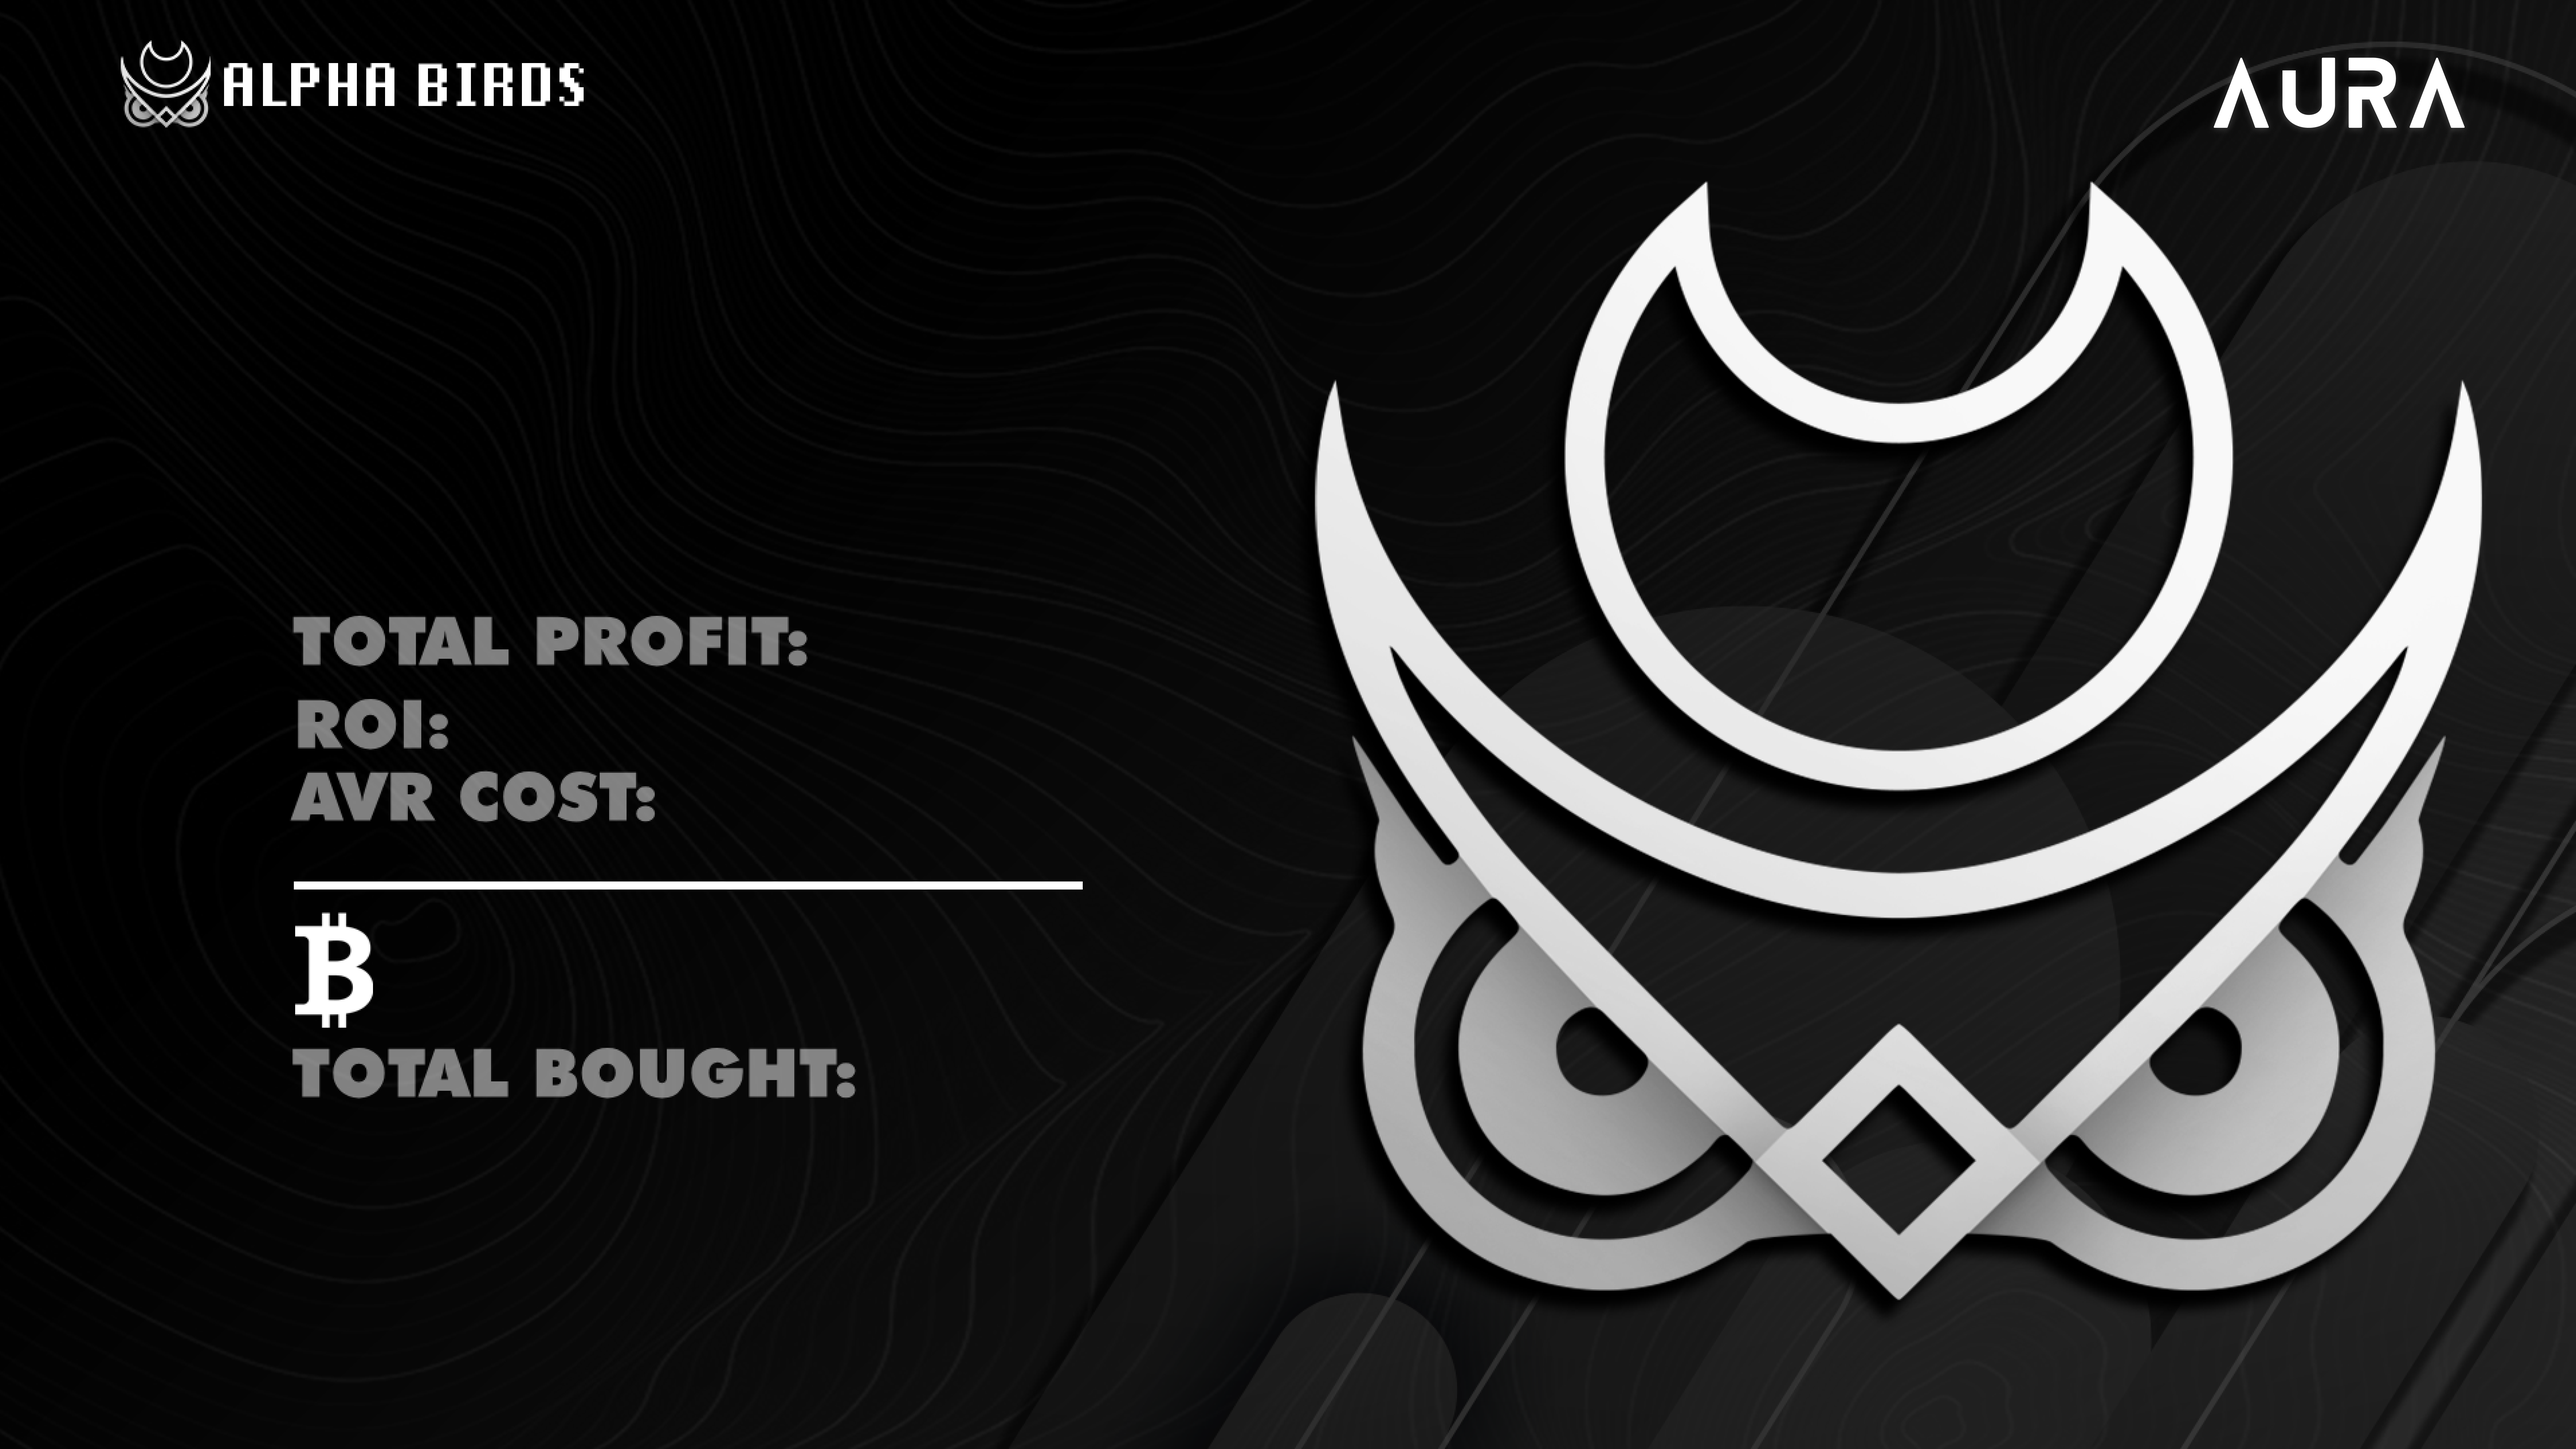
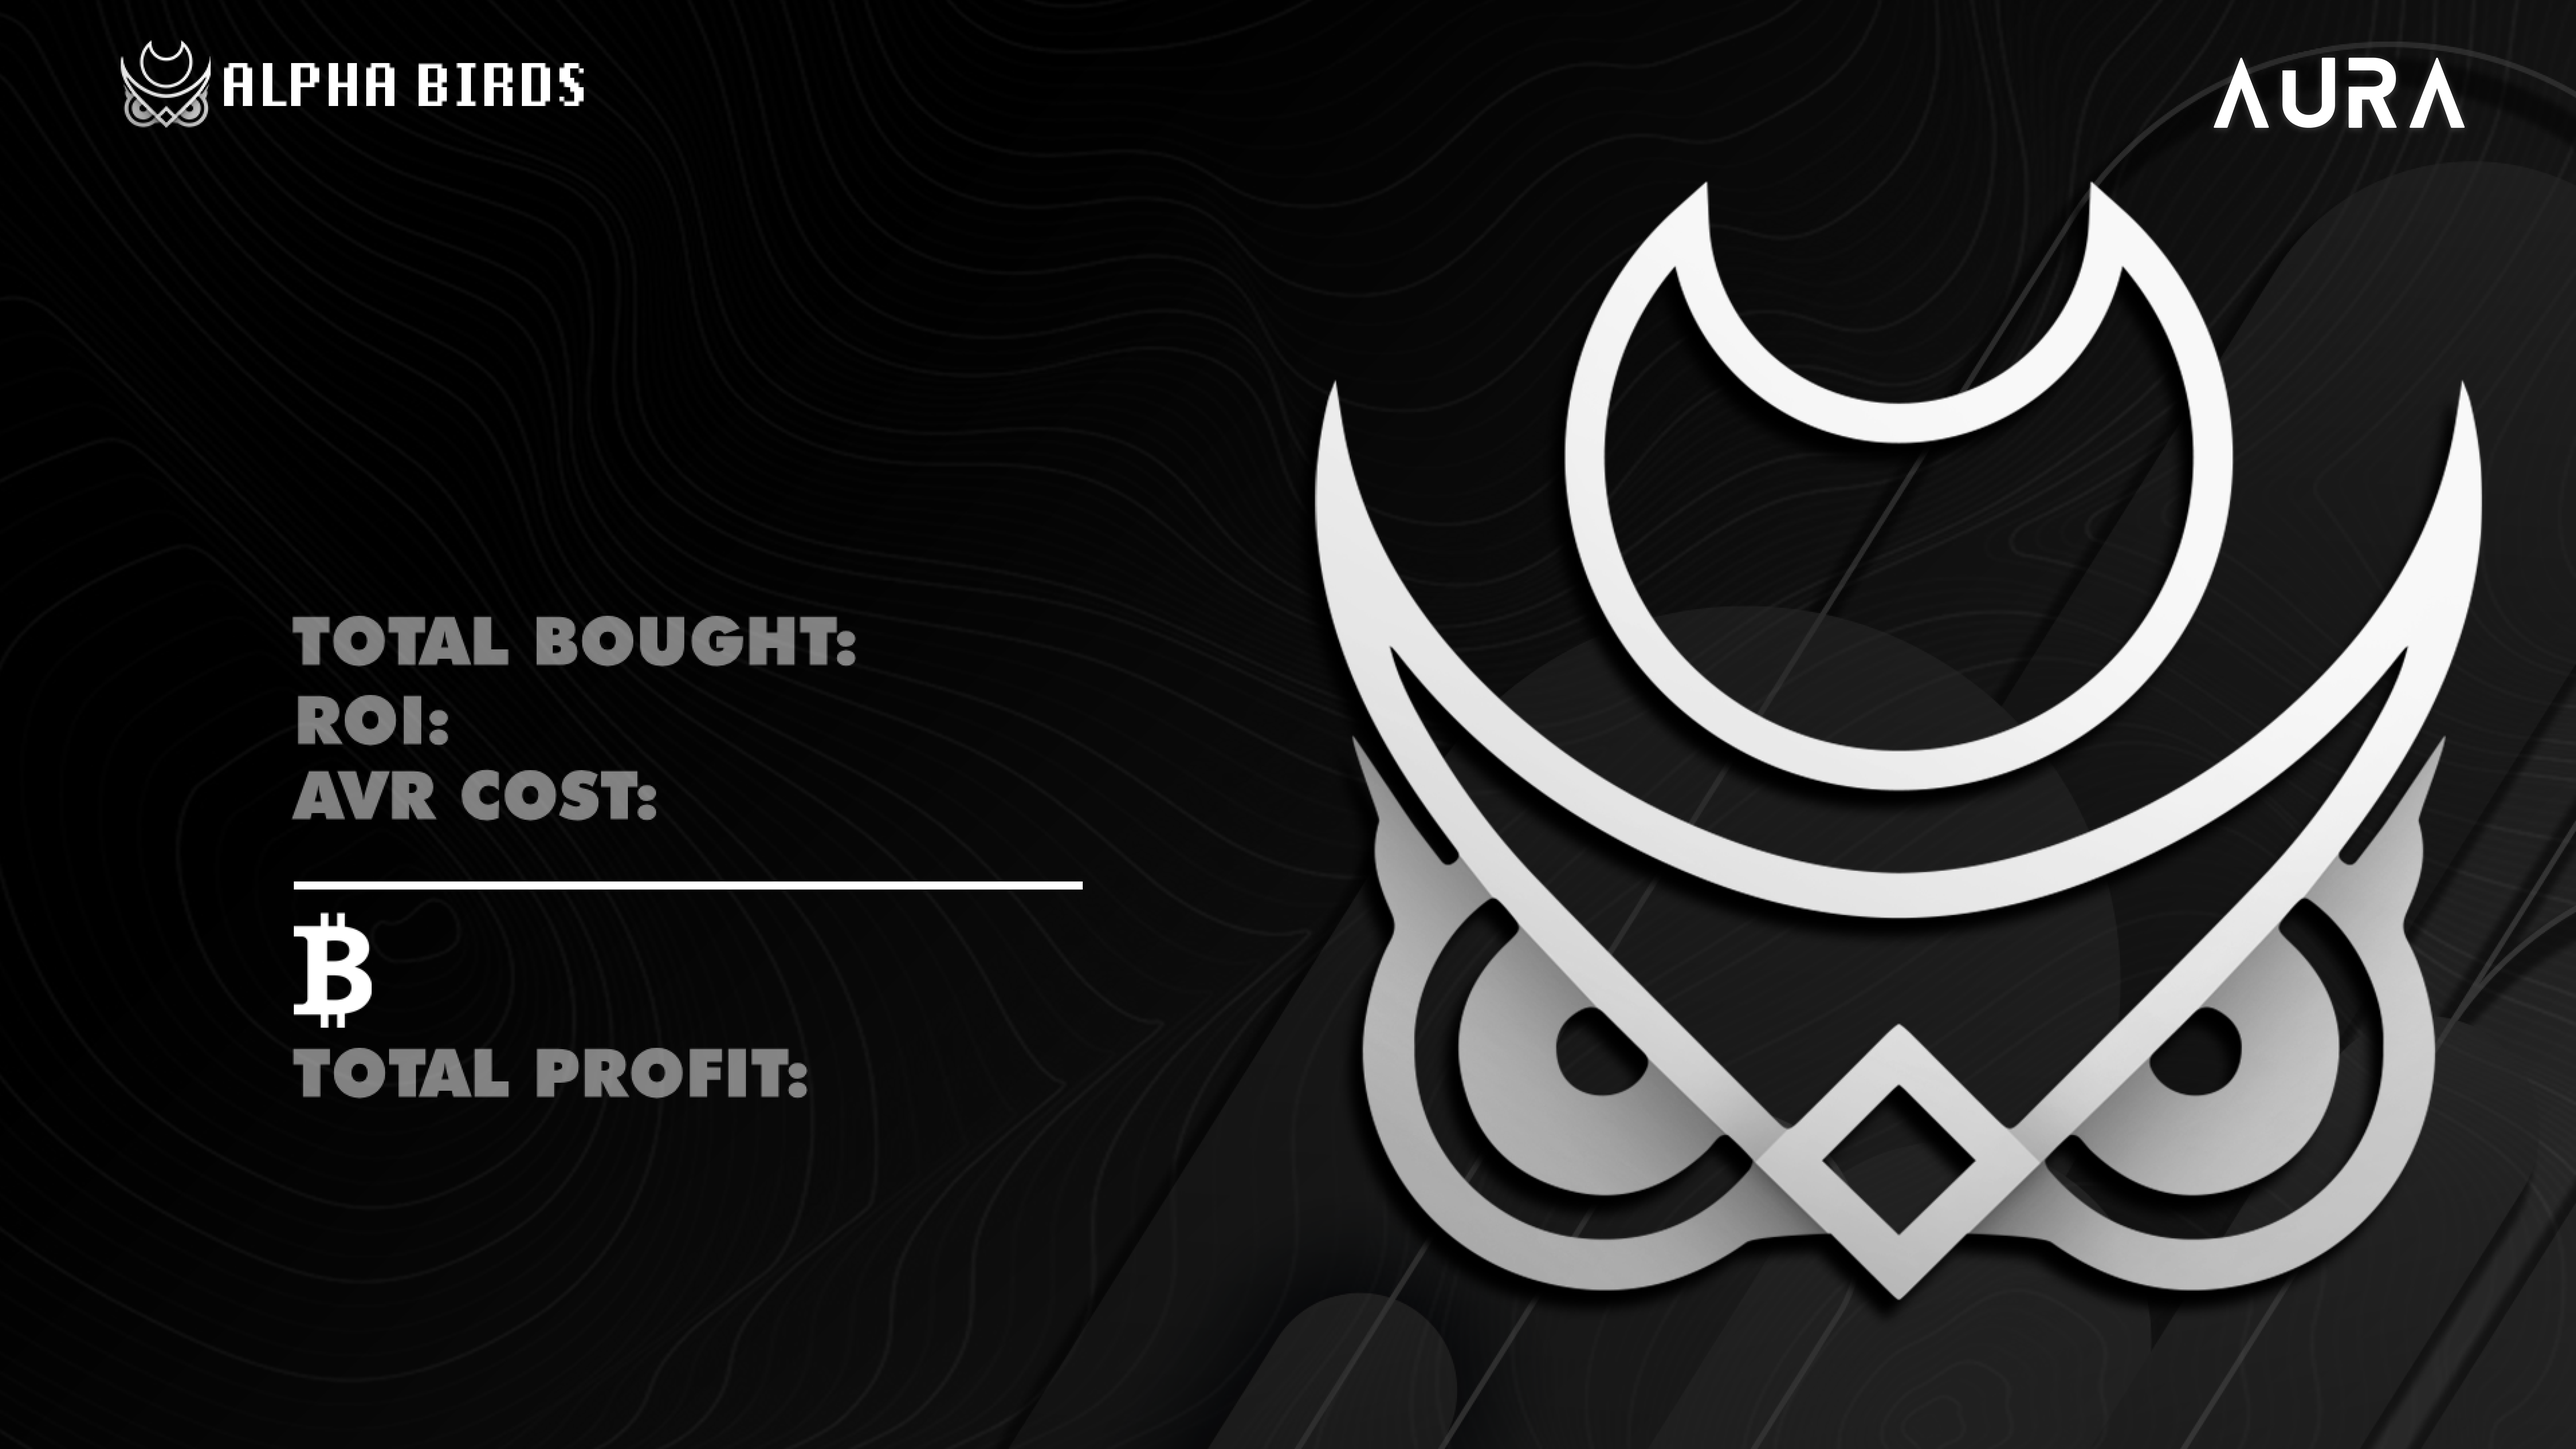
modify AB visual

Changed region(s): [[0.2188, 0.7188, 0.3438, 0.7812], [0.2188, 0.4062, 0.3438, 0.4688], [0.125, 0.4688, 0.25, 0.5625]]

diff --git a/interactions/buttons/category/cryptoprofit-visual.js b/interactions/buttons/category/cryptoprofit-visual.js
@@ -896,12 +896,12 @@ module.exports = {
           const buyTXT = "$" + formatDollars(totalBuy * ethUsdPrice)
           ctx.font = " 50px 'UTM Futura Extra'";
           ctx.fillStyle = "#828282";
-          ctx.fillText(buyTXT, 658, 817);
+          ctx.fillText(buyTXT, 658, 496);
 
           const profitUsdTXT = "$" + formatDollars(potentialProfit * ethUsdPrice)
           ctx.font = " 50px 'UTM Futura Extra'";
           ctx.fillStyle = "#828282";
-          ctx.fillText(profitUsdTXT, 621, 496);
+          ctx.fillText(profitUsdTXT, 621, 817);
 
           const name = "@" + authorName.toUpperCase()
           ctx.font = " 33px 'UTM Futura Extra'";

diff --git a/interactions/buttons/category/profit-visual.js b/interactions/buttons/category/profit-visual.js
@@ -924,12 +924,12 @@ module.exports = {
           const buyTXT = "$" + formatDollars(totalBuy * nativePrice)
           ctx.font = "50px 'UTM Futura Extra'";
           ctx.fillStyle = "#828282";
-          ctx.fillText(buyTXT, 658, 817);
+          ctx.fillText(buyTXT, 658, 496);
 
           const profitUsdTXT = "$" + formatDollars(potentialProfit * nativePrice)
           ctx.font = "50px 'UTM Futura Extra'";
           ctx.fillStyle = "#828282";
-          ctx.fillText(profitUsdTXT, 621, 496);
+          ctx.fillText(profitUsdTXT, 621, 817);
 
           const name = "@" + authorName.toUpperCase()
           ctx.font = "33px 'UTM Futura Extra'";

diff --git a/interactions/buttons/category/splprofitvisual.js b/interactions/buttons/category/splprofitvisual.js
@@ -902,12 +902,12 @@ module.exports = {
           const buyTXT = "$" + formatDollars(totalBuy * solPrice)
           ctx.font = " 50px 'UTM Futura Extra'";
           ctx.fillStyle = "#828282";
-          ctx.fillText(buyTXT, 658, 817);
+          ctx.fillText(buyTXT, 658, 496);
 
           const profitUsdTXT = "$" + formatDollars(potentialProfit * solPrice)
           ctx.font = " 50px 'UTM Futura Extra'";
           ctx.fillStyle = "#828282";
-          ctx.fillText(profitUsdTXT, 621, 496);
+          ctx.fillText(profitUsdTXT, 621, 817);
 
           const name = "@" + authorName.toUpperCase()
           ctx.font = " 33px 'UTM Futura Extra'";
